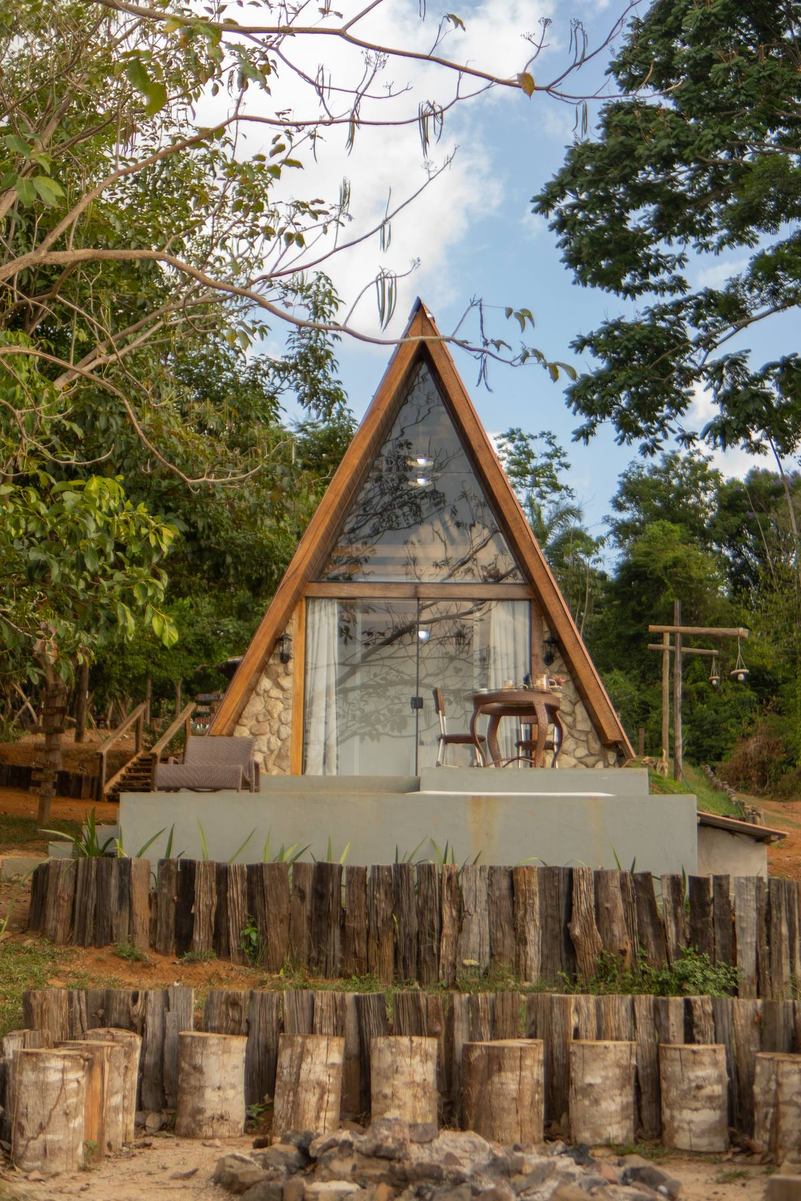
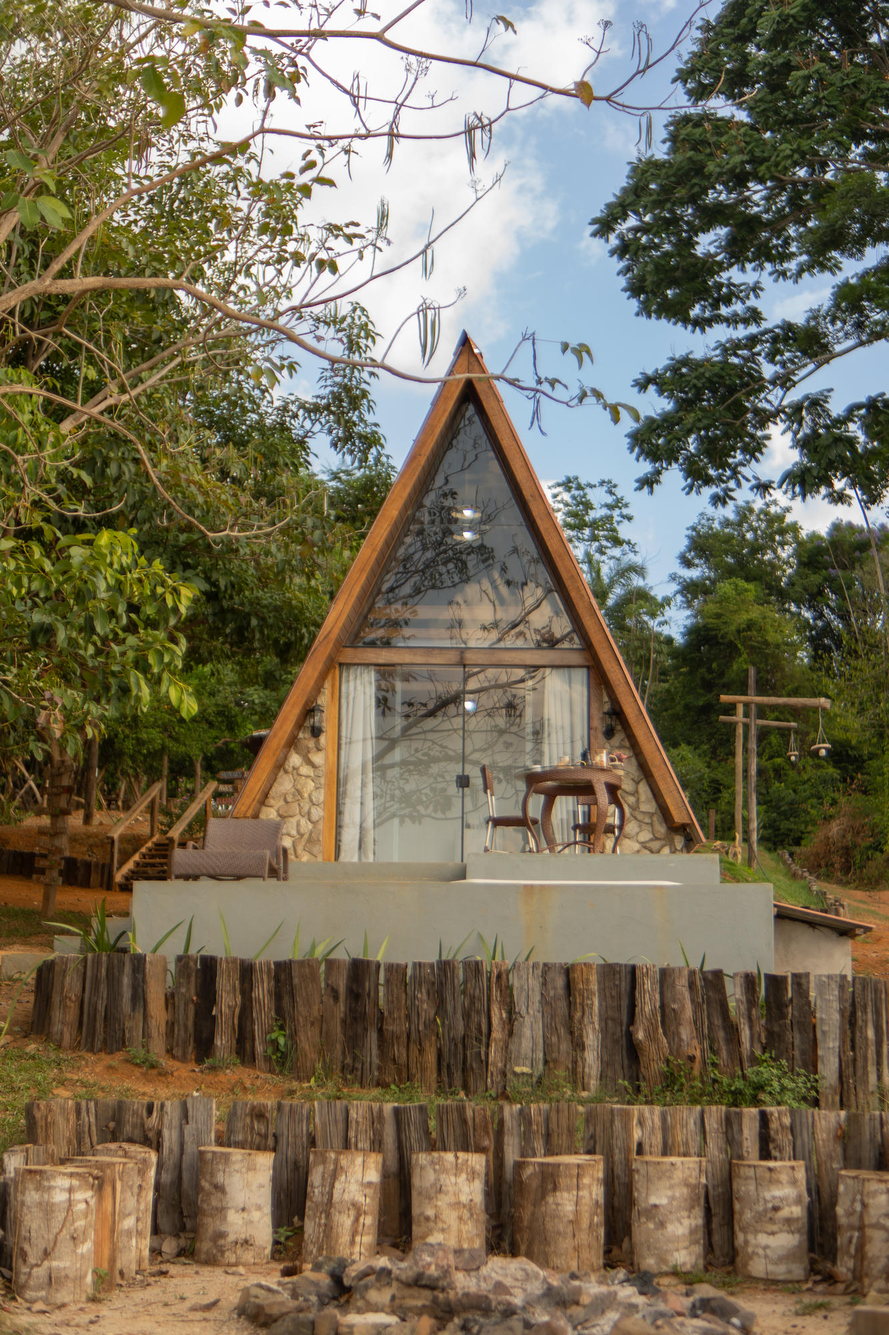
Add complete gallery photos

diff --git a/index.html b/index.html
@@ -236,7 +236,14 @@
   .photo-set .ph.big{grid-row:span 2;}
   .ph{background-color:var(--ink-2);background-size:cover;background-position:center;}
   .ph-a1{background-image:url('images/sala-area-estar.jpg');}
+  .ph-a2{background-image:url('images/quarto-casal.jpg');}
+  .ph-a3{background-image:url('images/espaco-redes.jpg');}
   .ph-b1{background-image:url('images/fachada-chale.jpg');}
+  .ph-b2{background-image:url('images/frente-chale.jpg');}
+  .ph-b3{background-image:url('images/interior-madeira.jpg');}
+  .ph-c1{background-image:url('images/area-churrasco-sinuca.jpg');}
+  .ph-c2{background-image:url('images/cozinha-equipada.jpg');}
+  .ph-c3{background-image:url('images/vista-ilha.jpg');}
 
   @media (max-width:900px){
     .stay-grid, .stay-grid.reverse{grid-template-columns:1fr;}
